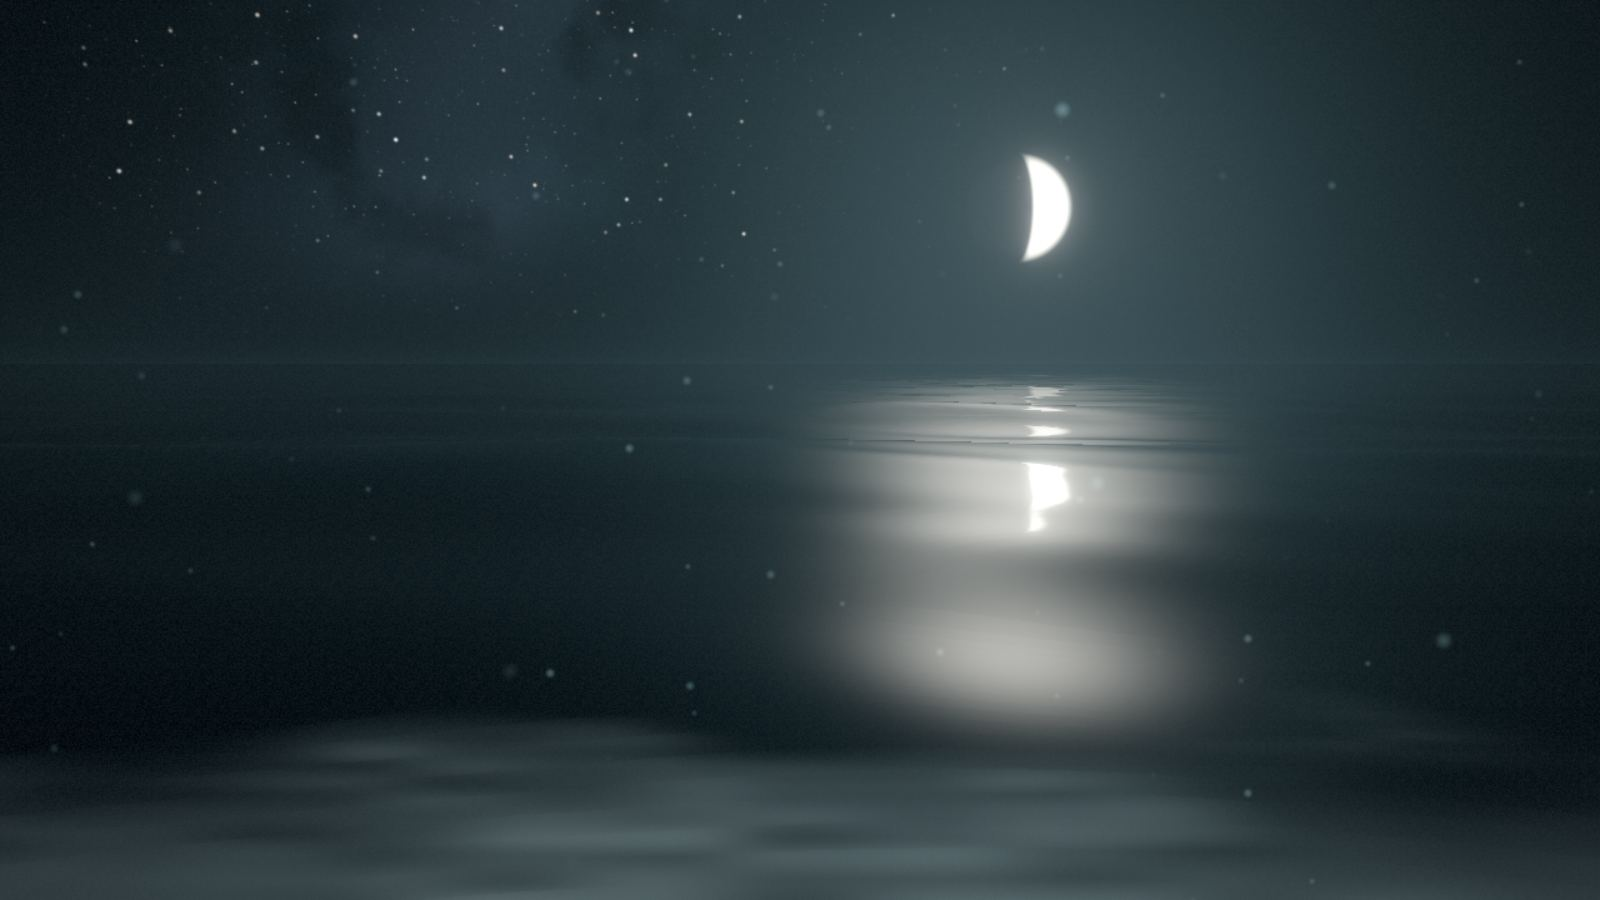
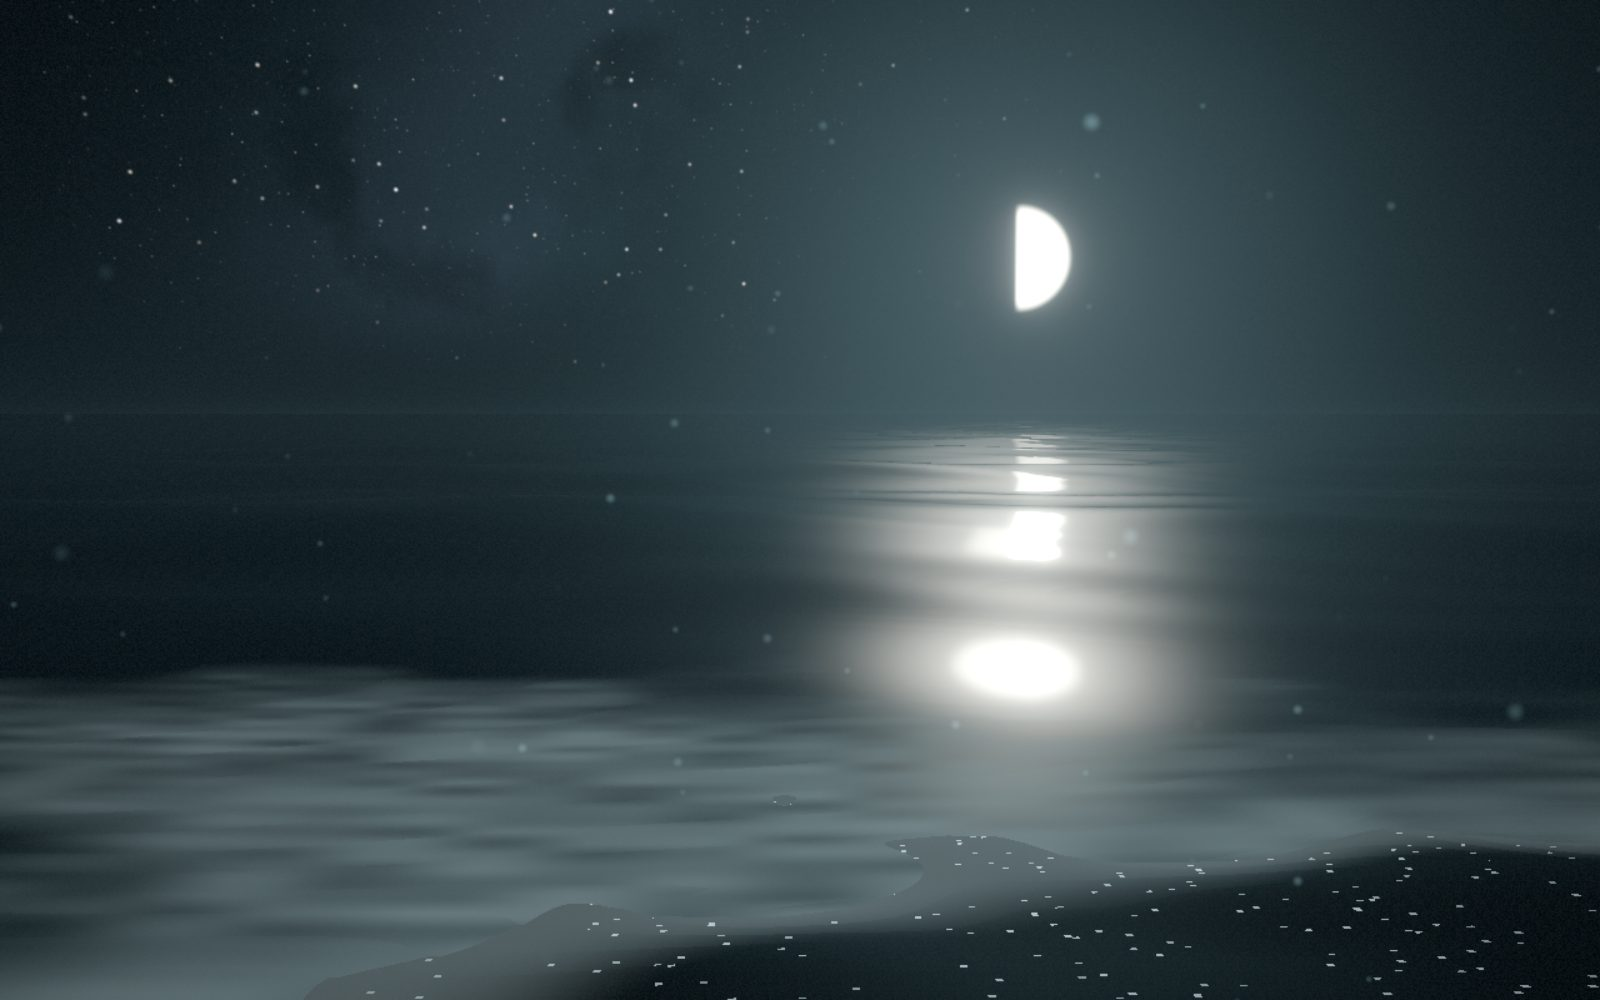
feat: render the stills and the project cover from the real scene, crescent to full
npm run capture opens a visible browser on the real GPU and renders the eight stills at each chapter's moon and camera, and the cover at the water's edge, through ?bare (text and scrollbar hidden); 82-93 kB each, cover 46 kB. Also: the About copy is now two paragraphs, the second stressed. Nested inside a line-split paragraph, SplitText lifted the stressed phrase onto its own line and left 'hand:' alone in all three engines once the copy changed (deepSlice and a words split had no effect).

Changed region(s): [[0.0, 0.4044, 1.0, 1.0], [0.625, 0.1556, 0.6875, 0.3422], [0.6562, 0.0933, 0.6875, 0.1244]]

diff --git a/src/styles/overlay.css b/src/styles/overlay.css
@@ -241,15 +241,18 @@ html.is-stills .world {
   letter-spacing: -0.011em;
 }
 
-/* The emphasised phrase used to be italic Fraunces. A grotesk says the same thing by going lighter, brighter and
-   tighter rather than slanting — the way the owner's references handle a stressed line. It stays the size of the
-   sentence around it: 1.12em raised its words 3 px, SplitText then read them as a line of their own, and Firefox
-   and WebKit left "hand:" alone on a line (measured, plan 2 Task 6). */
-.section em {
+/* The stressed line used to be italic Fraunces. A grotesk says the same thing by going lighter, brighter and tighter
+   rather than slanting — the way the owner's references handle a stressed line. It is its own paragraph, following
+   straight on from the first: nested inside a line-split paragraph, SplitText lifted the whole phrase onto a line of
+   its own and left "hand:" alone above it, in all three engines (measured, plan 2 Tasks 6 and 8). */
+.section p:has(+ .section__stress) {
+  margin-bottom: 0.25em;
+}
+
+.section .section__stress {
   color: var(--ink);
   font-family: var(--font-accent);
   font-weight: 300;
-  font-style: normal;
   letter-spacing: -0.02em;
 }
 
@@ -853,4 +856,14 @@ html.is-reduced-motion .world__still {
     height: 12rem;
     min-height: 0;
   }
+}
+
+/* `?bare`: the scene alone, for rendering the stills and the project cover (scripts/capture.mjs). `?p=` pins the
+   position, so nothing needs to scroll, and the scrollbar stays out of the pictures. */
+html.is-bare {
+  overflow: hidden;
+}
+
+html.is-bare .content {
+  display: none;
 }

diff --git a/index.html b/index.html
@@ -65,8 +65,10 @@
             <span aria-hidden="true" data-kicker="II · The shore">II · The shore</span>
           </h2>
           <p data-reveal="lines">
-            I'm learning to shape light, water and code into places you can wander through. Everything here is made
-            by hand: <em>the sea is a shader, and the moon fills as you travel.</em>
+            I'm learning to shape light, water and code into places you can wander through.
+          </p>
+          <p class="section__stress" data-reveal="lines">
+            Everything here is made by hand: the sea is a shader, and the moon fills as you travel.
           </p>
         </div>
       </section>

diff --git a/src/app/boot.ts b/src/app/boot.ts
@@ -48,6 +48,8 @@ export async function boot(): Promise<void> {
   // Text keeps its place in the scene whether the window is full screen or not (spec 2026-09-25 §4.14).
   // `?frame=old` shows the previous behaviour for the owner to compare.
   if (params.frame !== 'old') applyFrameFit(root, byId('world'));
+  // `?bare`: the scene alone, for rendering the stills and the project cover (scripts/capture.mjs).
+  if (params.bare) root.classList.add('is-bare');
 
   // ---- HTML layer: works even if 3D never starts ----
   // Phase 1 has one region, so its anchors are the page's sections.

diff --git a/tests/unit/params.test.ts b/tests/unit/params.test.ts
@@ -18,6 +18,7 @@ describe('readDebugParams', () => {
       gui: false,
       forceWebGL: false,
       stills: false,
+      bare: false,
     });
   });
 
@@ -63,7 +64,8 @@ describe('readDebugParams', () => {
   });
 
   it('treats presence-only flags as true', () => {
-    const params = readDebugParams('?hud&gui&webgl&stills');
+    const params = readDebugParams('?hud&gui&webgl&stills&bare');
+    expect(params.bare).toBe(true);
     expect(params.hud).toBe(true);
     expect(params.gui).toBe(true);
     expect(params.forceWebGL).toBe(true);

diff --git a/src/app/params.ts b/src/app/params.ts
@@ -24,6 +24,8 @@ export interface DebugParams {
   gui: boolean;
   forceWebGL: boolean;
   stills: boolean;
+  /** `?bare`: hide the text layer, for rendering the stills and the project cover (scripts/capture.mjs). */
+  bare: boolean;
 }
 
 export function readDebugParams(search: string): DebugParams {
@@ -64,5 +66,6 @@ export function readDebugParams(search: string): DebugParams {
     gui: query.has('gui'),
     forceWebGL: query.has('webgl'),
     stills: query.has('stills'),
+    bare: query.has('bare'),
   };
 }
